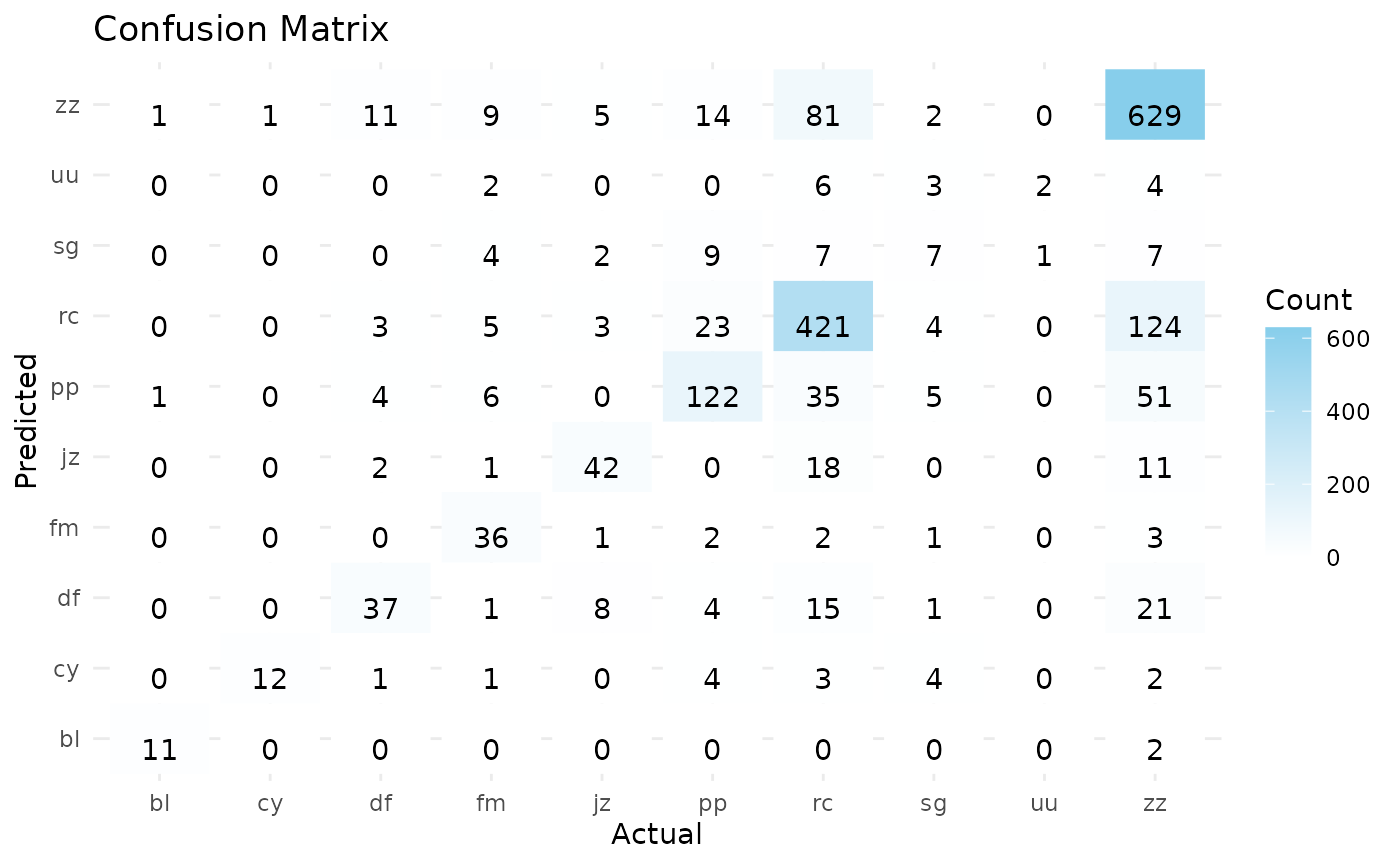
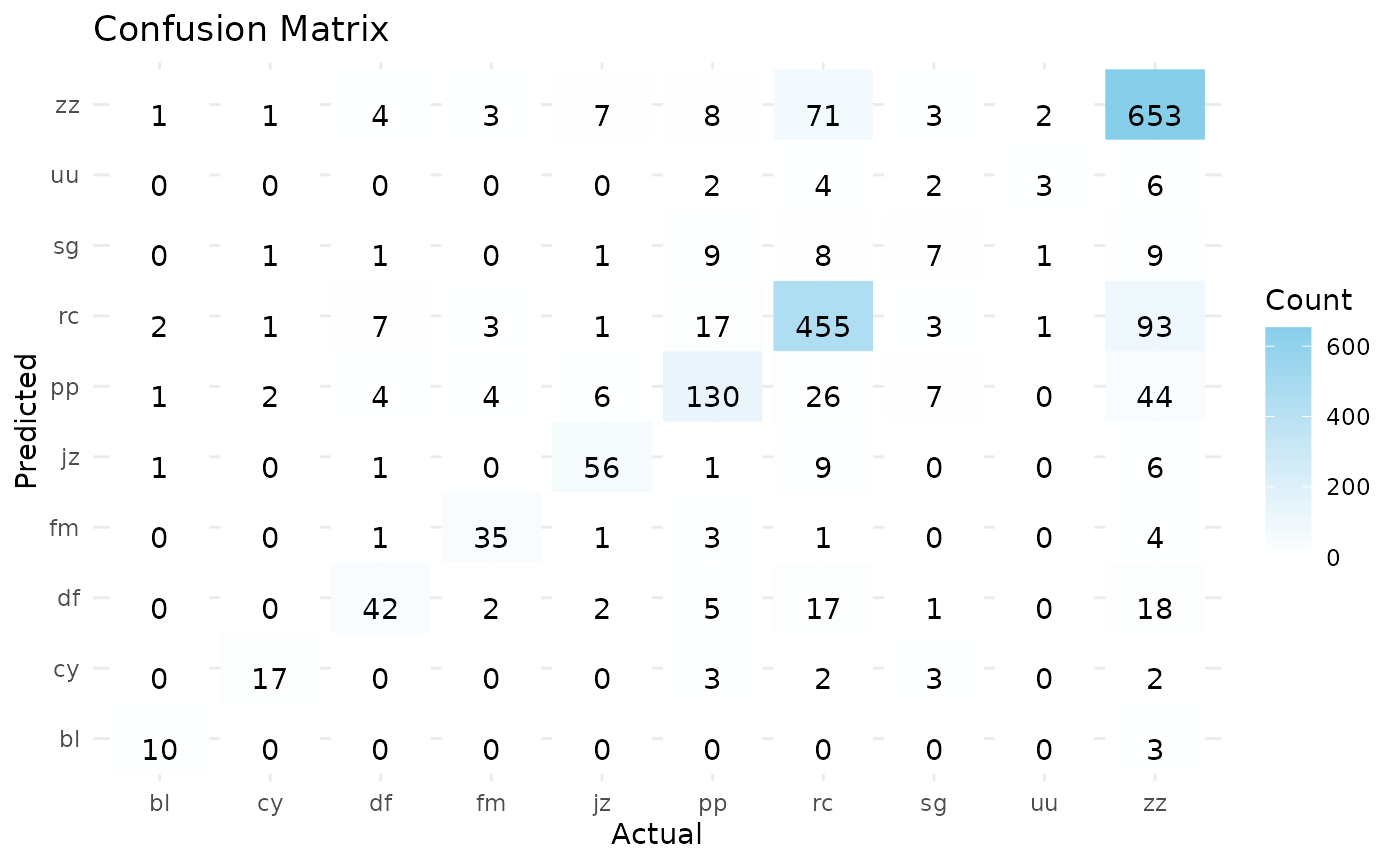
Deploying to gh-pages from @ nlnzcollservices/MusicFeatClassR@0794fe85f2ace85c997ecf3dfd52d9d8ac7c4280 🚀

diff --git a/articles/Manual.html b/articles/Manual.html
@@ -312,55 +312,55 @@ snippets.</p>
 <code class="sourceCode R"><span></span>
 <span><span class="fu"><a href="https://rdrr.io/r/base/print.html" class="external-link">print</a></span><span class="op">(</span><span class="va">result</span><span class="op">)</span></span>
 <span><span class="co">#&gt; $accuracy</span></span>
-<span><span class="co">#&gt; [1] 0.7091398</span></span>
+<span><span class="co">#&gt; [1] 0.7569892</span></span>
 <span><span class="co">#&gt; </span></span>
 <span><span class="co">#&gt; $confusion_matrix</span></span>
 <span><span class="co">#&gt; Confusion Matrix and Statistics</span></span>
 <span><span class="co">#&gt; </span></span>
 <span><span class="co">#&gt;           Reference</span></span>
 <span><span class="co">#&gt; Prediction  bl  cy  df  fm  jz  pp  rc  sg  uu  zz</span></span>
-<span><span class="co">#&gt;         bl  11   0   0   0   0   1   0   0   0   1</span></span>
-<span><span class="co">#&gt;         cy   0  12   0   0   0   0   0   0   0   1</span></span>
-<span><span class="co">#&gt;         df   0   1  37   0   2   4   3   0   0  11</span></span>
-<span><span class="co">#&gt;         fm   0   1   1  36   1   6   5   4   2   9</span></span>
-<span><span class="co">#&gt;         jz   0   0   8   1  42   0   3   2   0   5</span></span>
-<span><span class="co">#&gt;         pp   0   4   4   2   0 122  23   9   0  14</span></span>
-<span><span class="co">#&gt;         rc   0   3  15   2  18  35 421   7   6  81</span></span>
-<span><span class="co">#&gt;         sg   0   4   1   1   0   5   4   7   3   2</span></span>
-<span><span class="co">#&gt;         uu   0   0   0   0   0   0   0   1   2   0</span></span>
-<span><span class="co">#&gt;         zz   2   2  21   3  11  51 124   7   4 629</span></span>
+<span><span class="co">#&gt;         bl  10   0   0   0   1   1   2   0   0   1</span></span>
+<span><span class="co">#&gt;         cy   0  17   0   0   0   2   1   1   0   1</span></span>
+<span><span class="co">#&gt;         df   0   0  42   1   1   4   7   1   0   4</span></span>
+<span><span class="co">#&gt;         fm   0   0   2  35   0   4   3   0   0   3</span></span>
+<span><span class="co">#&gt;         jz   0   0   2   1  56   6   1   1   0   7</span></span>
+<span><span class="co">#&gt;         pp   0   3   5   3   1 130  17   9   2   8</span></span>
+<span><span class="co">#&gt;         rc   0   2  17   1   9  26 455   8   4  71</span></span>
+<span><span class="co">#&gt;         sg   0   3   1   0   0   7   3   7   2   3</span></span>
+<span><span class="co">#&gt;         uu   0   0   0   0   0   0   1   1   3   2</span></span>
+<span><span class="co">#&gt;         zz   3   2  18   4   6  44  93   9   6 653</span></span>
 <span><span class="co">#&gt; </span></span>
 <span><span class="co">#&gt; Overall Statistics</span></span>
 <span><span class="co">#&gt;                                           </span></span>
-<span><span class="co">#&gt;                Accuracy : 0.7091          </span></span>
-<span><span class="co">#&gt;                  95% CI : (0.6879, 0.7297)</span></span>
+<span><span class="co">#&gt;                Accuracy : 0.757           </span></span>
+<span><span class="co">#&gt;                  95% CI : (0.7368, 0.7763)</span></span>
 <span><span class="co">#&gt;     No Information Rate : 0.4048          </span></span>
 <span><span class="co">#&gt;     P-Value [Acc &gt; NIR] : &lt; 2.2e-16       </span></span>
 <span><span class="co">#&gt;                                           </span></span>
-<span><span class="co">#&gt;                   Kappa : 0.5842          </span></span>
+<span><span class="co">#&gt;                   Kappa : 0.6538          </span></span>
 <span><span class="co">#&gt;                                           </span></span>
 <span><span class="co">#&gt;  Mcnemar's Test P-Value : NA              </span></span>
 <span><span class="co">#&gt; </span></span>
 <span><span class="co">#&gt; Statistics by Class:</span></span>
 <span><span class="co">#&gt; </span></span>
 <span><span class="co">#&gt;                      Class: bl Class: cy Class: df Class: fm Class: jz</span></span>
-<span><span class="co">#&gt; Sensitivity           0.846154  0.444444   0.42529   0.80000   0.56757</span></span>
-<span><span class="co">#&gt; Specificity           0.998917  0.999454   0.98816   0.98402   0.98936</span></span>
-<span><span class="co">#&gt; Pos Pred Value        0.846154  0.923077   0.63793   0.55385   0.68852</span></span>
-<span><span class="co">#&gt; Neg Pred Value        0.998917  0.991879   0.97225   0.99499   0.98221</span></span>
-<span><span class="co">#&gt; Prevalence            0.006989  0.014516   0.04677   0.02419   0.03978</span></span>
-<span><span class="co">#&gt; Detection Rate        0.005914  0.006452   0.01989   0.01935   0.02258</span></span>
-<span><span class="co">#&gt; Detection Prevalence  0.006989  0.006989   0.03118   0.03495   0.03280</span></span>
-<span><span class="co">#&gt; Balanced Accuracy     0.922536  0.721949   0.70672   0.89201   0.77846</span></span>
+<span><span class="co">#&gt; Sensitivity           0.769231   0.62963   0.48276   0.77778   0.75676</span></span>
+<span><span class="co">#&gt; Specificity           0.997293   0.99727   0.98985   0.99339   0.98992</span></span>
+<span><span class="co">#&gt; Pos Pred Value        0.666667   0.77273   0.70000   0.74468   0.75676</span></span>
+<span><span class="co">#&gt; Neg Pred Value        0.998374   0.99456   0.97500   0.99448   0.98992</span></span>
+<span><span class="co">#&gt; Prevalence            0.006989   0.01452   0.04677   0.02419   0.03978</span></span>
+<span><span class="co">#&gt; Detection Rate        0.005376   0.00914   0.02258   0.01882   0.03011</span></span>
+<span><span class="co">#&gt; Detection Prevalence  0.008065   0.01183   0.03226   0.02527   0.03978</span></span>
+<span><span class="co">#&gt; Balanced Accuracy     0.883262   0.81345   0.73630   0.88558   0.87334</span></span>
 <span><span class="co">#&gt;                      Class: pp Class: rc Class: sg Class: uu Class: zz</span></span>
-<span><span class="co">#&gt; Sensitivity            0.54464    0.7221  0.189189  0.117647    0.8353</span></span>
-<span><span class="co">#&gt; Specificity            0.96577    0.8692  0.989029  0.999457    0.7967</span></span>
-<span><span class="co">#&gt; Pos Pred Value         0.68539    0.7160  0.259259  0.666667    0.7365</span></span>
-<span><span class="co">#&gt; Neg Pred Value         0.93936    0.8726  0.983633  0.991922    0.8767</span></span>
+<span><span class="co">#&gt; Sensitivity            0.58036    0.7804  0.189189  0.176471    0.8672</span></span>
+<span><span class="co">#&gt; Specificity            0.97066    0.8919  0.989578  0.997830    0.8329</span></span>
+<span><span class="co">#&gt; Pos Pred Value         0.73034    0.7673  0.269231  0.428571    0.7792</span></span>
+<span><span class="co">#&gt; Neg Pred Value         0.94411    0.8990  0.983642  0.992445    0.9022</span></span>
 <span><span class="co">#&gt; Prevalence             0.12043    0.3134  0.019892  0.009140    0.4048</span></span>
-<span><span class="co">#&gt; Detection Rate         0.06559    0.2263  0.003763  0.001075    0.3382</span></span>
-<span><span class="co">#&gt; Detection Prevalence   0.09570    0.3161  0.014516  0.001613    0.4591</span></span>
-<span><span class="co">#&gt; Balanced Accuracy      0.75521    0.7957  0.589109  0.558552    0.8160</span></span>
+<span><span class="co">#&gt; Detection Rate         0.06989    0.2446  0.003763  0.001613    0.3511</span></span>
+<span><span class="co">#&gt; Detection Prevalence   0.09570    0.3188  0.013978  0.003763    0.4505</span></span>
+<span><span class="co">#&gt; Balanced Accuracy      0.77551    0.8362  0.589383  0.587150    0.8500</span></span>
 <span><span class="co">#&gt; </span></span>
 <span><span class="co">#&gt; $trained_model</span></span>
 <span><span class="co">#&gt; </span></span>
@@ -370,19 +370,19 @@ snippets.</p>
 <span><span class="co">#&gt;                      Number of trees: 500</span></span>
 <span><span class="co">#&gt; No. of variables tried at each split: 2</span></span>
 <span><span class="co">#&gt; </span></span>
-<span><span class="co">#&gt;         OOB estimate of  error rate: 26.66%</span></span>
+<span><span class="co">#&gt;         OOB estimate of  error rate: 27.65%</span></span>
 <span><span class="co">#&gt; Confusion matrix:</span></span>
 <span><span class="co">#&gt;    bl cy df fm  jz  pp   rc sg uu   zz class.error</span></span>
-<span><span class="co">#&gt; bl 23  0  0  0   0   1    3  1  0    4   0.2812500</span></span>
-<span><span class="co">#&gt; cy  0 37  0  0   1   6    7  3  0    9   0.4126984</span></span>
-<span><span class="co">#&gt; df  1  0 99  1   3  12   44  0  0   44   0.5147059</span></span>
-<span><span class="co">#&gt; fm  0  0  2 71   3   8    8  1  1   14   0.3425926</span></span>
-<span><span class="co">#&gt; jz  0  0  0  2 132   3   17  0  0   21   0.2457143</span></span>
-<span><span class="co">#&gt; pp  1  2 14  8   6 314   69 11  1   97   0.3996176</span></span>
-<span><span class="co">#&gt; rc  2  5 15  5  13  54 1004 10  6  249   0.2633896</span></span>
-<span><span class="co">#&gt; sg  0  5  0  3   1  16   26 20  1   17   0.7752809</span></span>
-<span><span class="co">#&gt; uu  0  0  0  1   1   6   15  0  0   18   1.0000000</span></span>
-<span><span class="co">#&gt; zz  2  5 16  6  12  41  171  6  4 1494   0.1496870</span></span>
+<span><span class="co">#&gt; bl 23  0  0  0   0   3    2  0  0    4   0.2812500</span></span>
+<span><span class="co">#&gt; cy  0 31  1  1   1   6    9  3  0   11   0.5079365</span></span>
+<span><span class="co">#&gt; df  2  0 96  2   5  14   53  0  1   31   0.5294118</span></span>
+<span><span class="co">#&gt; fm  0  0  0 69   1   7   11  4  1   15   0.3611111</span></span>
+<span><span class="co">#&gt; jz  0  2  2  3 115   6   26  2  1   18   0.3428571</span></span>
+<span><span class="co">#&gt; pp  2  5 11 10   4 304   80 10  0   97   0.4187380</span></span>
+<span><span class="co">#&gt; rc  2  6 17  5  17  62 1014  5  4  231   0.2560528</span></span>
+<span><span class="co">#&gt; sg  0  3  0  4   1  14   25 27  0   15   0.6966292</span></span>
+<span><span class="co">#&gt; uu  0  0  2  1   0   2   18  2  0   16   1.0000000</span></span>
+<span><span class="co">#&gt; zz  4  5 19  9  12  31  194  8  3 1472   0.1622083</span></span>
 <span><span class="co">#&gt; </span></span>
 <span><span class="co">#&gt; attr(,"class")</span></span>
 <span><span class="co">#&gt; [1] "train_classifier"</span></span></code></pre></div>
@@ -409,7 +409,7 @@ derived from confusion matrix. See example below.</p>
 <span><span class="co">#sourceCpp(parent_dir,"src","get_metrics.cpp")</span></span>
 <span><span class="fu">classificationMetrics</span><span class="op">(</span><span class="va">result</span><span class="op">$</span><span class="va">confusion_matrix</span><span class="op">$</span><span class="va">table</span><span class="op">)</span></span>
 <span><span class="co">#&gt;  F1_Score       MCC </span></span>
-<span><span class="co">#&gt; 0.5760850 0.5514855</span></span></code></pre></div>
+<span><span class="co">#&gt; 0.6210883 0.5927127</span></span></code></pre></div>
 </div>
 </div>
 </div>

diff --git a/articles/Testing_plan.html b/articles/Testing_plan.html
@@ -111,11 +111,11 @@ by <code>testthat</code>. For example:</p>
 <span><span class="co">#&gt; </span></span>
 <span><span class="co">#&gt; ⠋ |          1 | classifier                                                     </span></span>
 <span><span class="co">#&gt; ⠧ |          8 | classifier                                                     </span></span>
-<span><span class="co">#&gt; <span style="color: #00BB00;">✔</span> |          9 | classifier<span style="color: #555555;"> [4.2s]</span></span></span>
+<span><span class="co">#&gt; <span style="color: #00BB00;">✔</span> |          9 | classifier<span style="color: #555555;"> [3.7s]</span></span></span>
 <span><span class="co">#&gt; </span></span>
 <span><span class="co">#&gt; ⠏ |          0 | extract_audio_features                                         </span></span>
 <span><span class="co">#&gt; ⠋ |          1 | extract_audio_features                                         </span></span>
-<span><span class="co">#&gt; <span style="color: #00BB00;">✔</span> |          9 | extract_audio_features<span style="color: #555555;"> [4.8s]</span></span></span>
+<span><span class="co">#&gt; <span style="color: #00BB00;">✔</span> |          9 | extract_audio_features<span style="color: #555555;"> [4.1s]</span></span></span>
 <span><span class="co">#&gt; </span></span>
 <span><span class="co">#&gt; ⠏ |          0 | extraction_routine</span></span>
 <span><span class="co">#&gt; </span></span>
@@ -188,17 +188,15 @@ by <code>testthat</code>. For example:</p>
 <span><span class="co">#&gt; <span style="color: #00BBBB;">•</span> `ie_number` -&gt; `ie_number...18`</span></span>
 <span><span class="co">#&gt; </span></span>
 <span><span class="co">#&gt; ⠋ |          1 | extraction_routine                                             </span></span>
-<span><span class="co">#&gt; <span style="color: #00BB00;">✔</span> |          3 | extraction_routine<span style="color: #555555;"> [7.8s]</span></span></span>
+<span><span class="co">#&gt; <span style="color: #00BB00;">✔</span> |          3 | extraction_routine<span style="color: #555555;"> [6.7s]</span></span></span>
 <span><span class="co">#&gt; </span></span>
 <span><span class="co">#&gt; ⠏ |          0 | metadata_extraction                                            </span></span>
 <span><span class="co">#&gt; <span style="color: #00BB00;">✔</span> |         18 | metadata_extraction</span></span>
 <span><span class="co">#&gt; </span></span>
 <span><span class="co">#&gt; ══ <span style="font-weight: bold;">Results</span> ═════════════════════════════════════════════════════════════════════</span></span>
-<span><span class="co">#&gt; <span style="color: #00BBBB;">Duration: 16.9 s</span></span></span>
+<span><span class="co">#&gt; <span style="color: #00BBBB;">Duration: 14.5 s</span></span></span>
 <span><span class="co">#&gt; </span></span>
-<span><span class="co">#&gt; [ FAIL 0 | WARN 0 | SKIP 0 | <span style="color: #00BB00;">PASS</span> 39 ]</span></span>
-<span><span class="co">#&gt; </span></span>
-<span><span class="co">#&gt; <span style="color: #00BB00;">You rock!</span></span></span></code></pre></div>
+<span><span class="co">#&gt; [ FAIL 0 | WARN 0 | SKIP 0 | <span style="color: #00BB00;">PASS</span> 39 ]</span></span></code></pre></div>
 <p>This will execute all the tests. Note: there are could be warnings
 related to packages.</p>
 </div>
